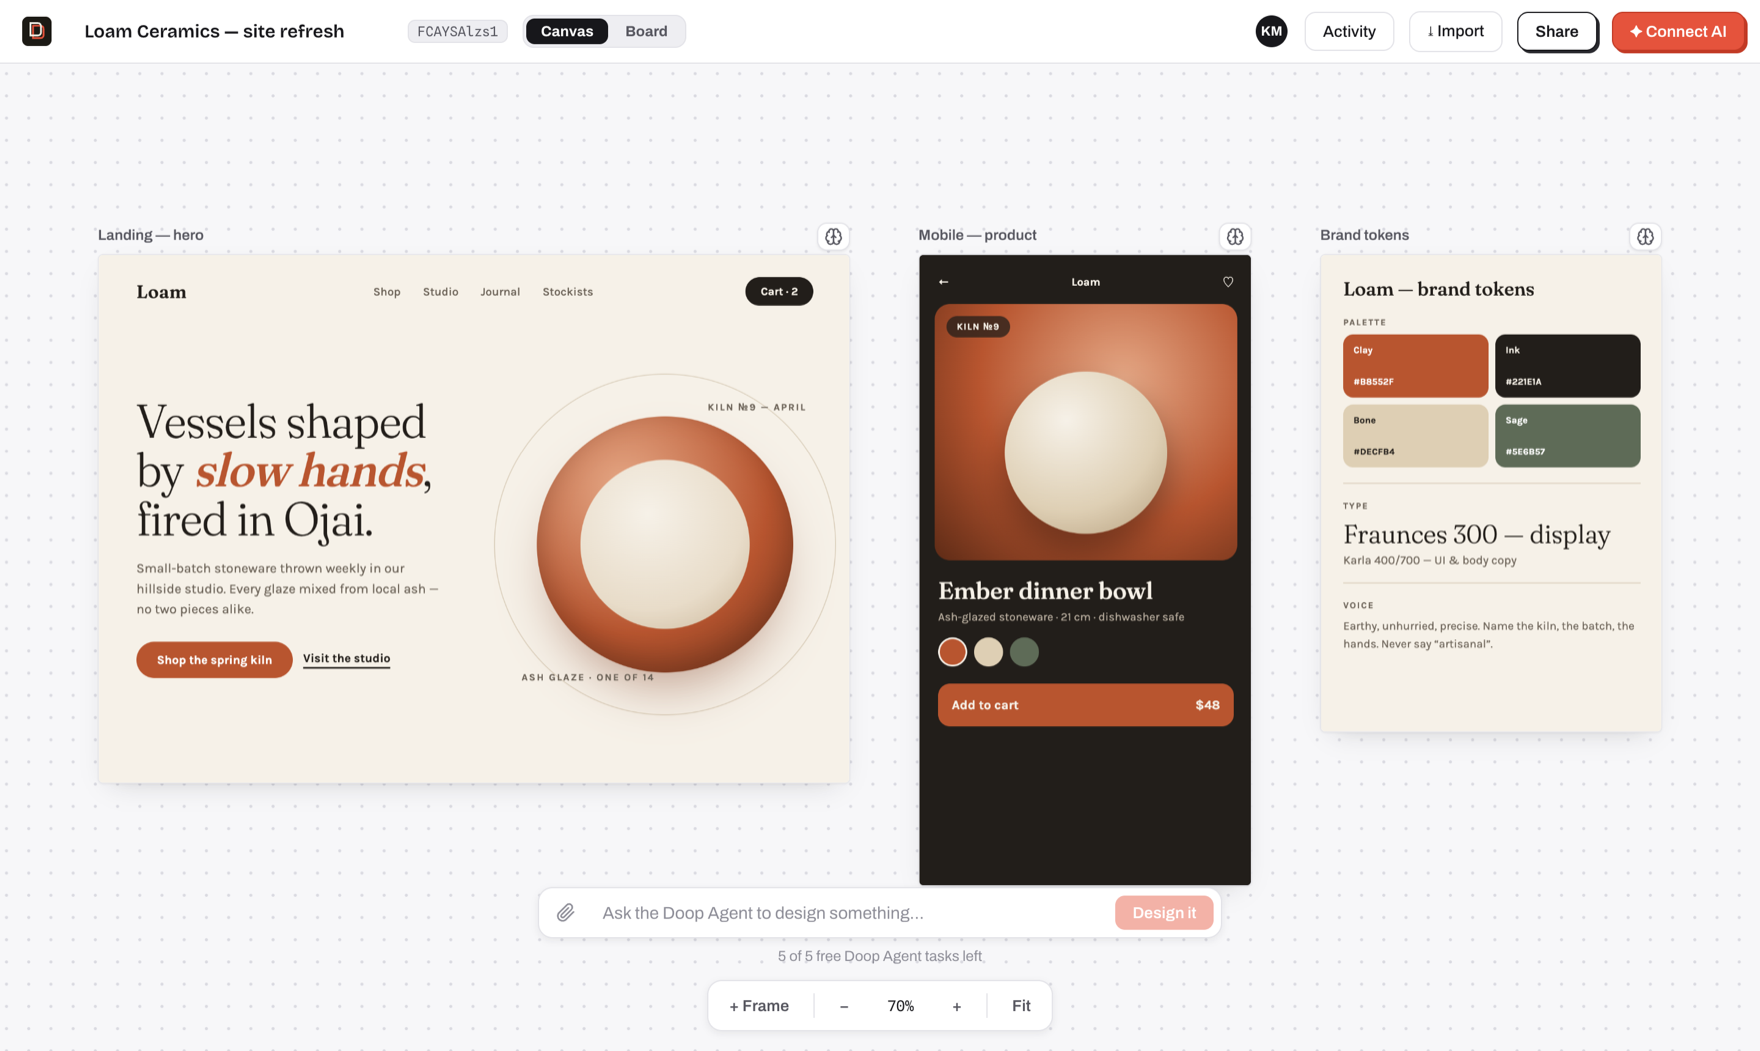
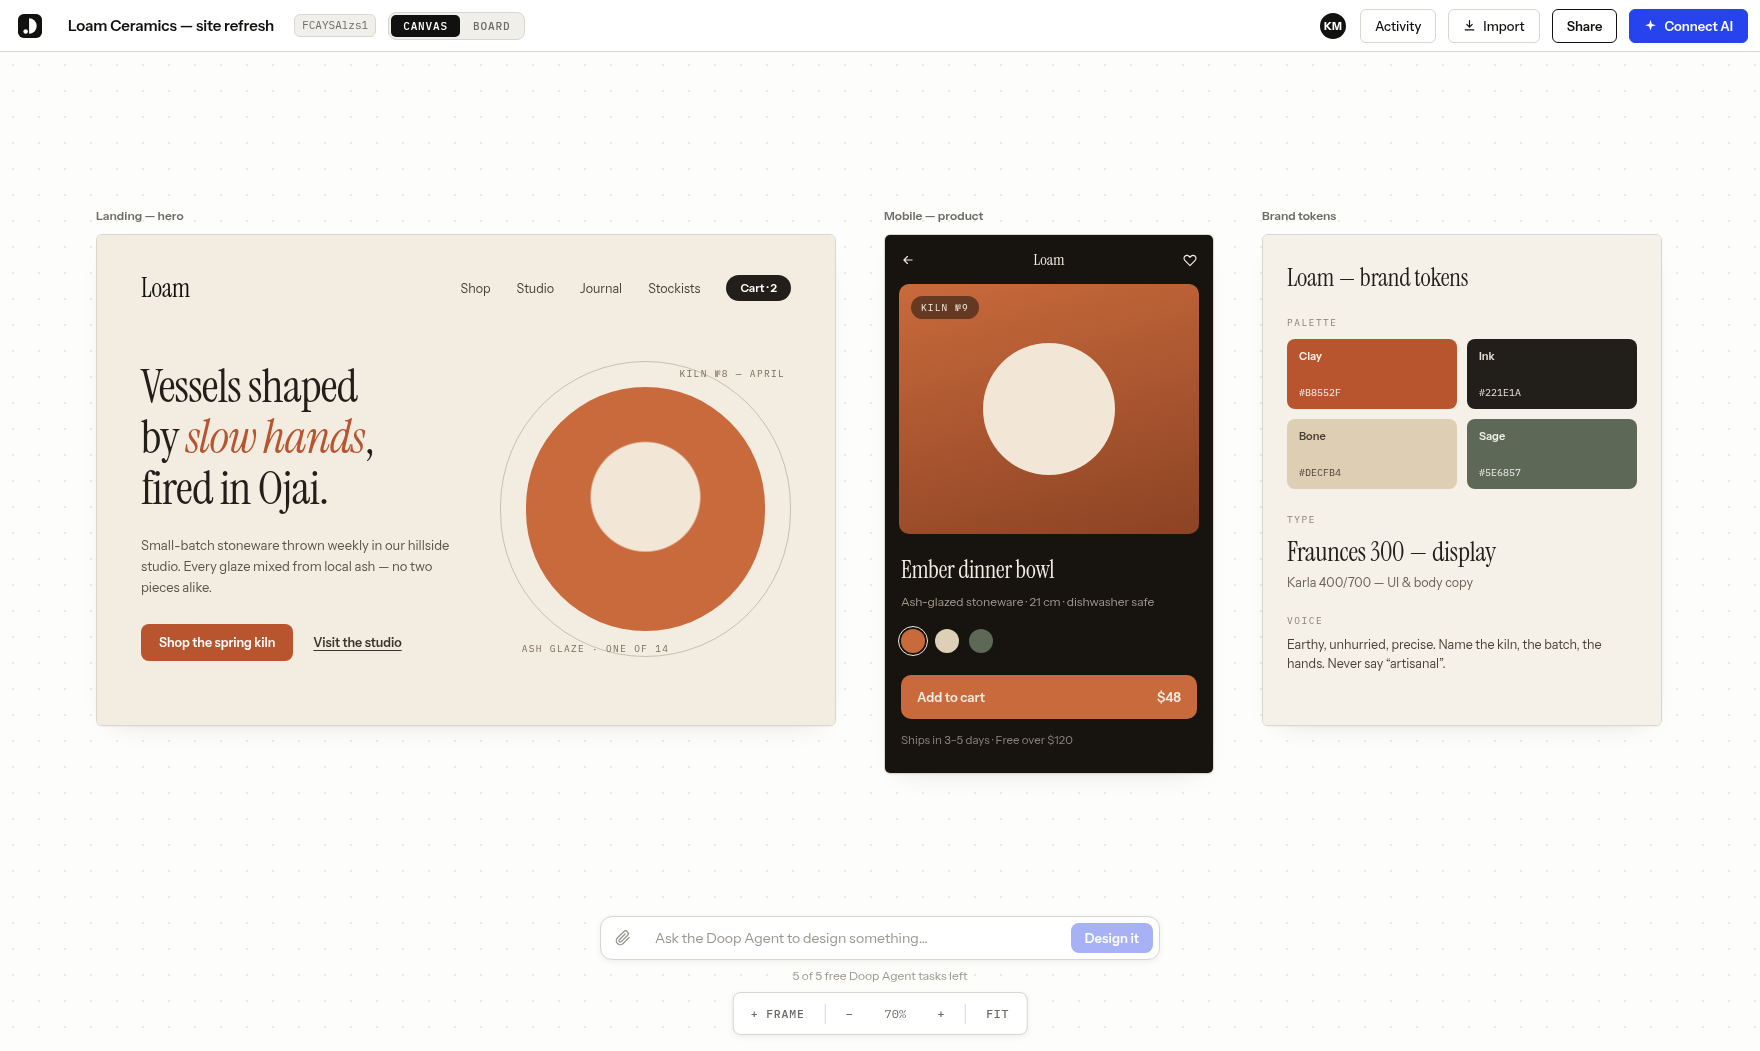
docs: rebuild the README graphics on the Disc-D identity (#87)
The five images still showed the old logo and the warm-red brand the app
moved off in df5a134. All of them are redrawn as frames on a doop canvas
and exported at their original dimensions, so the README markup and every
alt string are unchanged.

The four app shots are hand-built HTML replicas of the chrome rather than
live screenshots — faithful to the current components (52px hairline
topbar, mono segmented Canvas/Board, blue Connect AI, prompt bar, zoom
toolbar), but they will not track future UI drift on their own. Presence
colours come from the real colorFor() hash: Claude Code is plum #8E2E5C on
chips and dots while its avatar tile stays Anthropic orange #D97757, and
the scripted demo agent "Doop" is amber #C77800. The per-frame info icon
from the old shots is gone because FrameView no longer renders one.

The badge row was the only prose still carrying the old palette, so it
moves onto the new one: cursor blue #2743EE on the cloud link, ink #111110
on the other two. Red is deliberately absent — it now only means "failed".

Re-exporting also cut the five files from 1.9 MB to 778 KB.

Claude-Session: https://claude.ai/code/session_01GyWerdHKWN3dhG3jaraSfT

diff --git a/README.md b/README.md
@@ -4,9 +4,9 @@
 
 <p align="center">
   <a href="https://github.com/kgoedecke/doop/actions/workflows/ci.yml"><img src="https://github.com/kgoedecke/doop/actions/workflows/ci.yml/badge.svg" alt="CI"></a>
-  <a href="LICENSE"><img src="https://img.shields.io/badge/license-AGPL--3.0-2D5FE0" alt="License: AGPL-3.0"></a>
-  <a href="https://doop.design"><img src="https://img.shields.io/badge/cloud-doop.design-E5533C" alt="Doop Cloud"></a>
-  <a href="CONTRIBUTING.md"><img src="https://img.shields.io/badge/PRs-welcome-1C1A15" alt="PRs welcome"></a>
+  <a href="LICENSE"><img src="https://img.shields.io/badge/license-AGPL--3.0-111110" alt="License: AGPL-3.0"></a>
+  <a href="https://doop.design"><img src="https://img.shields.io/badge/cloud-doop.design-2743EE" alt="Doop Cloud"></a>
+  <a href="CONTRIBUTING.md"><img src="https://img.shields.io/badge/PRs-welcome-111110" alt="PRs welcome"></a>
   <a href="https://discord.com/invite/3AUfXjgVe"><img src="https://img.shields.io/badge/chat-Discord-5865F2" alt="Discord"></a>
 </p>
 
